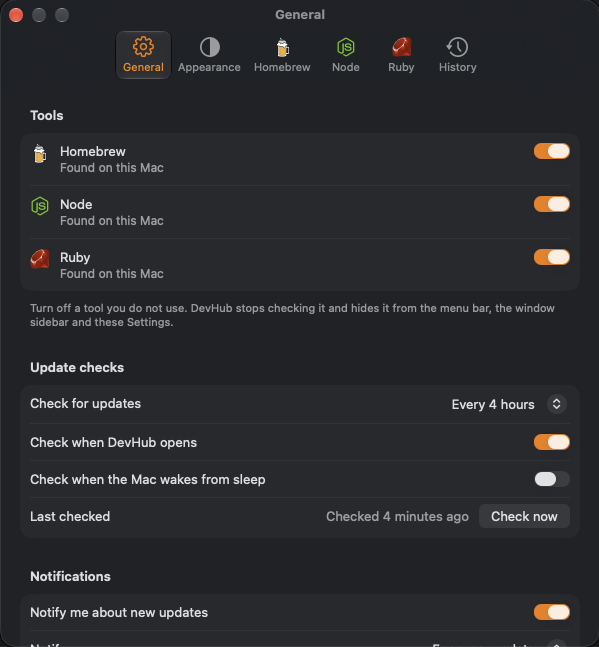
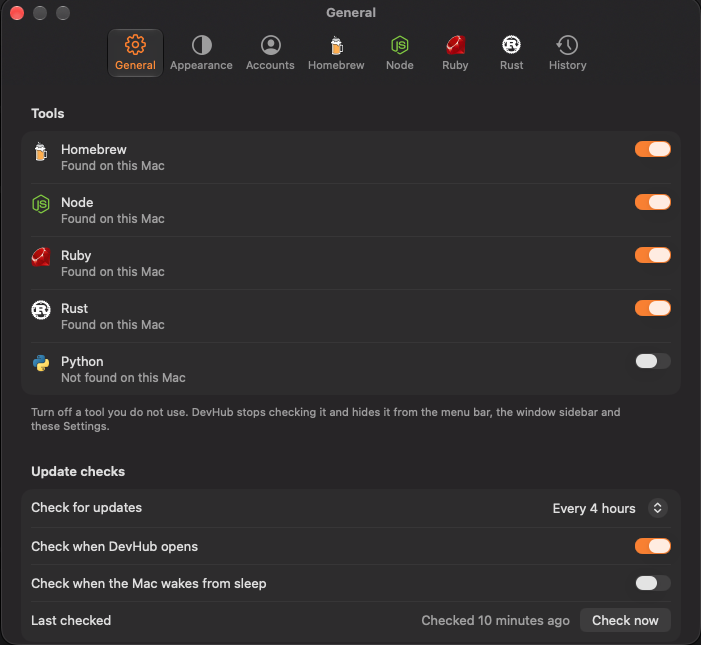
chore: add the 1.1.0 screenshots and fix the image sizes

diff --git a/README.md b/README.md
@@ -23,6 +23,11 @@
   <p><em>The window, with a sidebar that filters by tool, Node version and Ruby version</em></p>
 </div>
 
+<div align="center">
+  <img src=".github/images/versions-banner.png" alt="The DevHub window on Node, with banners offering Node 26.10.0 and 25.9.0" width="800">
+  <p><em>A newer Node version, offered with Install or Install and set as default</em></p>
+</div>
+
 <table align="center">
   <tr>
     <td align="center" valign="top">
@@ -32,6 +37,16 @@
     <td align="center" valign="top">
       <img src=".github/images/settings.png" alt="DevHub settings" width="360"><br>
       <em>Settings</em>
+    </td>
+  </tr>
+  <tr>
+    <td align="center" valign="top">
+      <img src=".github/images/standard-packages.png" alt="The Standard packages window on the Node tab" width="360"><br>
+      <em>Standard packages, with the versions that are missing some of them</em>
+    </td>
+    <td align="center" valign="top">
+      <img src=".github/images/sync.png" alt="The Accounts tab in Settings, connected to GitHub" width="360"><br>
+      <em>Sync with GitHub in Settings</em>
     </td>
   </tr>
 </table>
